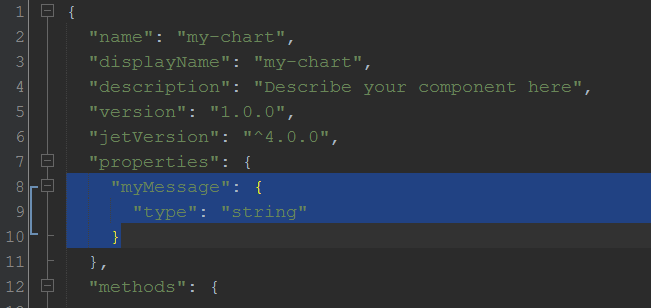
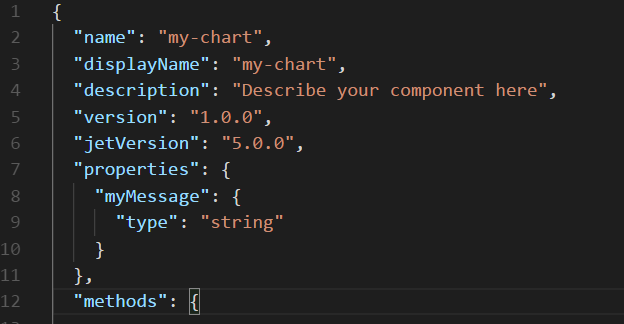
updating script and images to show new syntax for 5.0.0

diff --git a/beginners-start/README.md b/beginners-start/README.md
@@ -145,23 +145,24 @@ You have also defined the _type_ that this attribute will pass, to be a string. 
 #### Telling the component what to do with the value
 The component now knows to look for the _my-message_ attribute.  Let's now connect the business logic in the viewModel of your component to use that attributes value to display the message where we want it.
 
-Open the _viewModel.js_ file from your projects **src/js/jet-composites/my-chart** directory.  In the default template, the value for the _self.messageText_ observable is hardcoded to a set value.  You are going to add a line in the _context.props_ Promise callback function to set the observable value to the string that is passed in by the DOM elements _my-message_ attribute.
+Open the _my-chart-viewModel.js_ file from your projects **src/js/jet-composites/my-chart** directory.  In the default template, the value for the _self.messageText_ observable is hardcoded to a set value. You will also see a commented out example section for how to check if a specific property is defined, and if it is, then set it to the new value. You are going to uncomment this section and add a line to set the observable value to the string that is passed in by the DOM elements _my-message_ attribute.
 
 >Knockout.js observables  
 An "observable" or "observableArray" is a special type of two-way binding variable used by Knockout.js. When the value is changed by either the UI, or the JavaScript ViewModel, the other references to the observable are automatically updated as well.
 
 
-Looking at image 8 below, there are a few things to pay attention to:  
+Looking at image 8 below, there are a couple things to pay attention to:  
 * The original definition of the self.messageText knockout observable variable
-* The _context.props.then()_ method holds the callback function that returns a list of all the properties that your component has defined. Notice how the _context.props_ method returns a Promise which allows our callback function to only be called after the properties are available.
-* Using the self.properties object, we can get the value of the _myMessage_ property and set the value of _self.messageText_ to that value.  Notice how a Knockout observable value is set by passing in the value as an argument to a method, and not by using the **=** assignment operator. 
+* Using the context.properties object, we can get the value of the _myMessage_ property and set the value of _self.messageText_ to that value.  Notice how a Knockout observable value is set by passing in the value as an argument to a method, and not by using the **=** assignment operator. 
 
-```javascript
-self.messageText(self.properties.myMessage);
+```javascript       
+  if (context.properties.myMessage) {
+    self.messageText(context.properties.myMessage);
+  }
 ```
 
 
-![contents of viewModel.js file](./images/image-8.png "contents of viewModel.js file")  
+![contents of my-chart-viewModel.js file](./images/image-8.png "contents of my-chart-viewModel.js file")  
 **IMAGE 8**
 
 Save your changes and you should see your new message being displayed instead of the default one.
@@ -171,7 +172,7 @@ Save your changes and you should see your new message being displayed instead of
 ### Working with prettier things
 You have now finished your first composite component and you could make multiple instances of the element in the _dashboard.html_ file with different messages if you liked.  That is pretty boring though, so let's add something a little more complex and make multiple instance of that.
 
-Open the _view.html_ from your composites directory.  You will see the existing `<p>` element that is rendering your runtime message right now.  You are going to add a Chart component from the JET Data Visualization collection and bind the type of chart to an attribute that can be defined in the HTML DOM.
+Open the _my-chart-view.html_ from your composites directory.  You will see the existing `<p>` element that is rendering your runtime message right now.  You are going to add a Chart component from the JET Data Visualization collection and bind the type of chart to an attribute that can be defined in the HTML DOM.
 
 To add the chart component to your components view, you are going to copy and paste some HTML from the JET Cookbook page. Open the [Bar Chart Cookbook page](http://www.oracle.com/webfolder/technetwork/jet/jetCookbook.html?component=barChart&demo=default) in a new browser window so you can easily copy and paste between two windows.
 
@@ -188,7 +189,7 @@ Look at the HTML Editor section and copy the code that you see in image 10 below
 **IMAGE 10**
 
 
-Place the HTML code into the _view.html_ file just below the existing `<p>` element.
+Place the HTML code into the _my-chart-view.html_ file just below the existing `<p>` element.
 Remove the attributes for _orientation_ and _stack_ from the code that you copied over. 
 Also change the value for `type` to be `[[chartType]]`. You'll create this new variable in a few more steps.
 Your code will look like image 11 below when completed.
@@ -197,37 +198,40 @@ Your code will look like image 11 below when completed.
 **IMAGE 11**
 
 
-Now that you have your HTML for the chart, open the _viewModel.js_ file and go back to the Cookbook page so you can copy the JavaScript code related to your chart. Image 12 below shows what you are going to copy from the JavaScript Editor section of the Cookbook page.
+Now that you have your HTML for the chart, open the _my-chart-viewModel.js_ file and go back to the Cookbook page so you can copy the JavaScript code related to your chart. Image 12 below shows what you are going to copy from the JavaScript Editor section of the Cookbook page.
 
 ![javascript code in cookbook](./images/image-12.png "javascript code in cookbook")  
 **IMAGE 12**
 
 
-Paste the code into the _viewModel.js_ file just after the `context.props` function.  Make sure it's still inside of the _ExampleComponentModel_ function though.  Image 13 will show the proper location.
+Paste the code into the _my-chart-viewModel.js_ file just after the `context.props` function.  Make sure it's still inside of the _ExampleComponentModel_ function though.  Image 13 will show the proper location.
 
 ![javascript code in viewmodel file](./images/image-13.png "javascript code in viewmodel file")  
 **IMAGE 13**
 
-You now have the values for the data that will populate your chart, but you need to add a reference to the attribute that will be passed into your component from the custom element.  At the top of the _viewModel.js_ file, just under the `self.messageText` variable, add a new variable called `chartType` and give it a default value of **bar**
+You now have the values for the data that will populate your chart, but you need to add a reference to the attribute that will be passed into your component from the custom element.  At the top of the _my-chart-viewModel.js_ file, just under the `self.messageText` variable, add a new variable called `chartType` and give it a default value of **bar**
 
 ```javascript
 self.chartType = "bar";
 ```
 
-Now go down to the `.then()` Promise callback function where you setup the _myMessage_ assignment and add another assignment for this attribute _chartType_.  Image 14 below will show the final setup in the _viewModel.js_ file.
+Now go down to where you setup the _myMessage_ assignment and add another assignment for this attribute _chartType_.  Image 14 below will show the final setup in the _my-chart-viewModel.js_ file.
 
 ```javascript
-self.chartType = self.properties.chartType;
+  if (context.properties.chartType) {
+    self.chartType = context.properties.chartType;
+  }
 ```
 
 ![completed code in viewmodel file](./images/image-14.png "completed code in viewmodel file")  
 **IMAGE 14**
 
-One final step in the _viewModel.js_ file. At the top of the file, you will see a _define_ statement that provides references to the libraries that this component has dependencies.  Oracle JET is a module toolkit, where you can use as little or as much of that toolkit as you like.  In this case, we need to add a reference to the JET Chart UI component so that our module will know to load it. Your _define_ block should look like this after adding the reference.
+One final step in the _my-chart-viewModel.js_ file. At the top of the file, you will see a _define_ statement that provides references to the libraries that this component has dependencies.  Oracle JET is a module toolkit, where you can use as little or as much of that toolkit as you like.  In this case, we need to add a reference to the JET Chart UI component so that our module will know to load it. Your _define_ block should look like this after adding the reference.
 
 
 ```javascript
-define(['ojs/ojcore', 'knockout', 'jquery', 'ojs/ojchart'], function (oj, ko, $) {
+define(
+    ['ojs/ojcore', 'knockout', 'jquery', 'ojL10n!./resources/nls/my-chart-strings','ojs/ojchart'], function (oj, ko, $) {
 'use strict';
 ```
 
